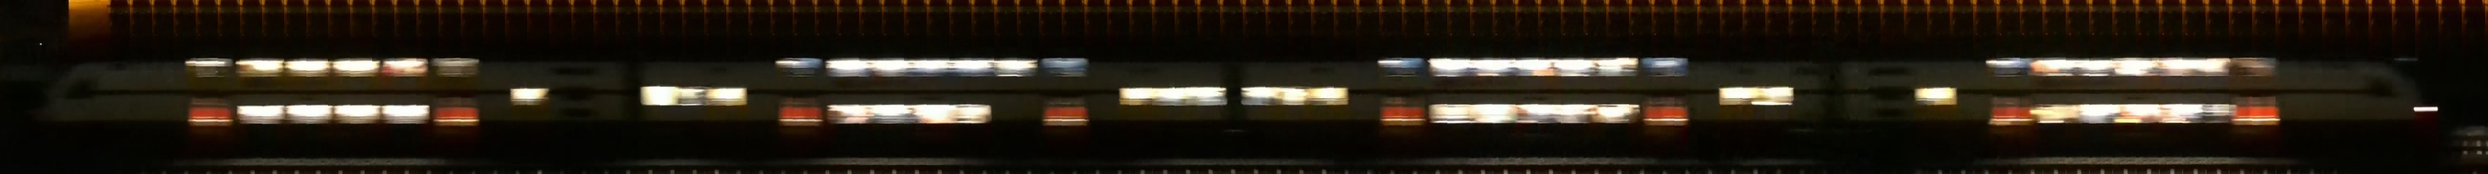
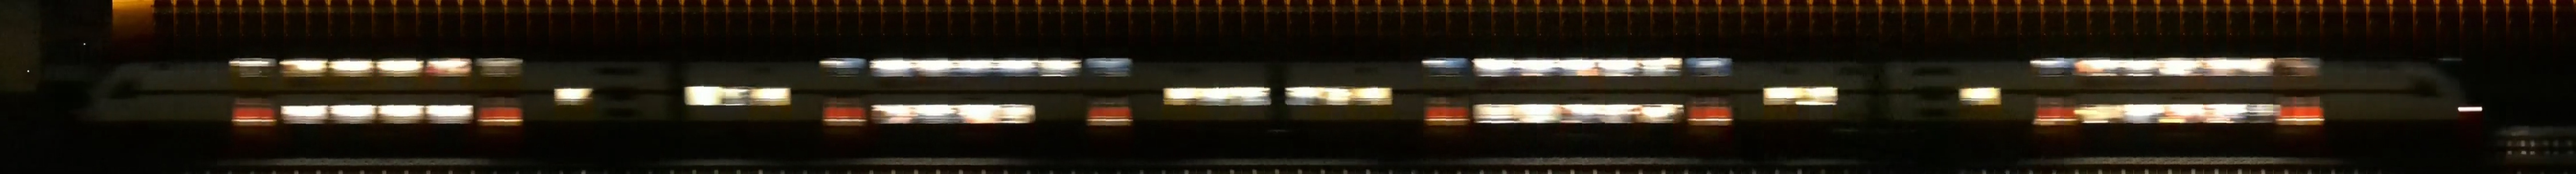
revert aggressive cropping (reverts commit 7bab82d61e752)

diff --git a/internal/pkg/stitch/stitch.go b/internal/pkg/stitch/stitch.go
@@ -9,7 +9,6 @@ import (
 	"math"
 	"time"
 
-	"github.com/jo-m/trainbot/pkg/imutil"
 	"github.com/mccutchen/palettor"
 	"github.com/nfnt/resize"
 	"github.com/rs/zerolog/log"
@@ -231,14 +230,6 @@ func fitAndStitch(seq sequence, c Config) (*Train, error) {
 	img, err := stitch(seq.frames, dxFit)
 	if err != nil {
 		return nil, fmt.Errorf("unable to assemble image: %w", err)
-	}
-
-	// Theoretically, we can crop away 1/3 of the width of 1 frame.
-	// We crop away 1/4 to leave some margin.
-	dw := seq.frames[0].Bounds().Dx() / 4
-	cropped, err := imutil.Sub(img, image.Rect(dw, 0, img.Rect.Dx()-dw, img.Rect.Dy()))
-	if err == nil {
-		img = cropped.(*image.RGBA)
 	}
 
 	gif, err := createGIF(seq, img)
